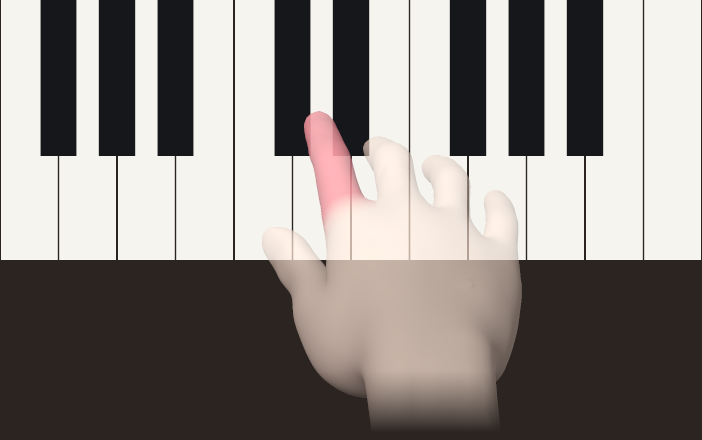
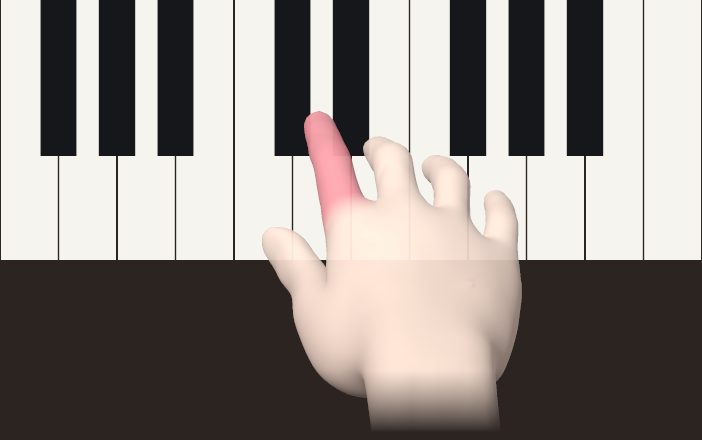
第 7 版：琴键上方的音符区压到原来四成高，3D 手更不透明
- 音符区高度 clamp(84px,12vh,120px)，音符块缩到 32px，最多显示接下来 4 个
- 手的默认不透明度 0.5 → 0.9，底部渐隐范围缩短，手掌不再被淡掉

diff --git a/index.html b/index.html
@@ -32,13 +32,13 @@ h1{font-size:clamp(30px,5vw,44px);line-height:1.05;letter-spacing:-.02em;font-we
 .grid{display:grid;gap:20px}
 @media(min-width:900px){.grid{grid-template-columns:minmax(0,1.55fr) minmax(0,1fr);align-items:start}.side{position:sticky;top:16px}}
 .stage{background:linear-gradient(var(--lac2),var(--lac) 40%);border-radius:18px;padding:14px 12px 12px;color:#f1efe9}
-.lane{position:relative;height:clamp(170px,30vh,300px);overflow:hidden;border-radius:10px 10px 0 0;background:repeating-linear-gradient(90deg,transparent 0 calc(100%/var(--nw) - 1px),rgba(255,255,255,.05) calc(100%/var(--nw) - 1px) calc(100%/var(--nw)))}
-.blk{position:absolute;bottom:0;transform:translateX(-50%);display:grid;place-items:center;align-content:center;gap:1px;border-radius:8px;font-weight:700;font-size:13px;line-height:1.1;transition:bottom .28s ease,opacity .28s ease,left .28s ease;white-space:nowrap}
-.blk.w{width:calc(100%/var(--nw) - 4px);height:46px;background:#f3f1ec;color:#141518}
-.blk.b{width:calc(100%/var(--nw)*0.7);height:46px;background:#3a3d45;color:#fff;outline:2px solid #f3f1ec}
+.lane{position:relative;height:clamp(84px,12vh,120px);overflow:hidden;border-radius:10px 10px 0 0;background:repeating-linear-gradient(90deg,transparent 0 calc(100%/var(--nw) - 1px),rgba(255,255,255,.05) calc(100%/var(--nw) - 1px) calc(100%/var(--nw)))}
+.blk{position:absolute;bottom:0;transform:translateX(-50%);display:grid;place-items:center;align-content:center;gap:1px;border-radius:7px;font-weight:700;font-size:11px;line-height:1;transition:bottom .28s ease,opacity .28s ease,left .28s ease;white-space:nowrap}
+.blk.w{width:calc(100%/var(--nw) - 4px);height:32px;background:#f3f1ec;color:#141518}
+.blk.b{width:calc(100%/var(--nw)*0.7);height:32px;background:#3a3d45;color:#fff;outline:2px solid #f3f1ec}
 .blk.now{background:var(--felt);color:#fff;outline:none;box-shadow:0 0 0 3px rgba(200,16,46,.35)}
-.lyric{position:absolute;left:10px;top:8px;font-size:14px;color:#c9c6bf;right:10px}
-.fg{display:grid;place-items:center;width:22px;height:22px;border-radius:50%;background:#141518;color:#fff;font-size:13px;font-style:normal}
+.lyric{position:absolute;left:8px;top:4px;font-size:12px;color:#c9c6bf;right:10px}
+.fg{display:grid;place-items:center;width:15px;height:15px;border-radius:50%;background:#141518;color:#fff;font-size:10px;font-style:normal}
 .blk.now .fg{background:#fff;color:var(--felt)}
 .handov{position:absolute;left:0;right:0;top:0;bottom:-66px;pointer-events:none;z-index:3}
 .handov[hidden]{display:none}
@@ -106,7 +106,7 @@ window.addEventListener('unhandledrejection', function (e) { var r = e.reason ||
 <div class="wrap">
 <div id="errBox" class="notice" hidden style="margin-bottom:14px"></div>
 <header>
-  <h1>听音钢琴课 <span class="small" style="font-weight:400;letter-spacing:0">第 6 版</span></h1>
+  <h1>听音钢琴课 <span class="small" style="font-weight:400;letter-spacing:0">第 7 版</span></h1>
   <div class="row" style="align-items:center">
     <button class="chip" id="micChip" type="button"><span class="dot"></span><span id="micTxt">麦克风未开启</span></button>
     <button class="btn main" id="startBtn" type="button">开始听</button>
@@ -434,10 +434,11 @@ function draw() {
   if (nt.shift) $('hint').className = 'hint shift'; else $('hint').className = 'hint';
   drawHand(nt.anchor, nt.f);
   $('lyric').textContent = song.lyric ? song.lyric.slice(Math.max(0, idx - 3), idx) + '【' + song.lyric[idx] + '】' + song.lyric.slice(idx + 1, idx + 5) : '';
-  for (let k = 0; k < 5 && idx + k < N; k++) {
+  const laneH = lane.clientHeight || 100, step = Math.max(20, (laneH - 36) / 3); // compact lane: up to 4 upcoming notes, overlapping a little
+  for (let k = 0; k < 5 && idx + k < N && 4 + k * step + 32 <= laneH + 1; k++) {
     const m = song.notes[idx + k].m, el = document.createElement('div');
     el.className = 'blk ' + (isW(m) ? 'w' : 'b') + (k === 0 ? ' now' : '');
-    el.style.left = keyX(m) + '%'; el.style.bottom = (6 + k * 54) + 'px'; el.style.opacity = 1 - k * 0.17;
+    el.style.left = keyX(m) + '%'; el.style.bottom = (4 + k * step) + 'px'; el.style.opacity = 1 - k * 0.2; el.style.zIndex = 10 - k;
     const fgr = song.notes[idx + k].f;
     el.innerHTML = (fgr ? `<i class="fg">${fgr}</i>` : '') + `<span>${nm(m)}</span>`; lane.appendChild(el);
   }
@@ -548,7 +549,7 @@ function startMic() {
 function diag(t) {
   let perm = '';
   const base = '安全连接 ' + (window.isSecureContext ? '是' : '否') + '；mediaDevices ' + (navigator.mediaDevices ? '有' : '无') + '；getUserMedia ' + (navigator.mediaDevices && navigator.mediaDevices.getUserMedia ? '有' : '无') + '；AudioContext ' + (window.AudioContext || window.webkitAudioContext ? '有' : '无');
-  const show = () => { $('diag').textContent = '第 6 版。' + t + '。' + base + perm + '。' + navigator.userAgent; };
+  const show = () => { $('diag').textContent = '第 7 版。' + t + '。' + base + perm + '。' + navigator.userAgent; };
   show();
   try { navigator.permissions.query({ name: 'microphone' }).then(r => { perm = '；麦克风权限 ' + r.state; show(); }, () => {}); } catch (e) {}
 }
@@ -598,8 +599,8 @@ if (!navigator.mediaDevices || !navigator.mediaDevices.getUserMedia) micFail(NO_
 <script type="module">
 // 3D 绑骨右手：hand3d/piano-hand.js + right-hand.glb。WebGL 或网络不行就继续用 2D 手。
 const host = window.__hand3dHost;
-if (host && !host.off) import('./hand3d/piano-hand.js?v=6')
-  .then(({ PianoHand }) => PianoHand.create({ container: host.container(), whiteKeys: host.whiteKeys, keyboardHeight: host.keyboardHeight, glbUrl: './hand3d/right-hand.glb?v=6' }))
+if (host && !host.off) import('./hand3d/piano-hand.js?v=7')
+  .then(({ PianoHand }) => PianoHand.create({ container: host.container(), whiteKeys: host.whiteKeys, keyboardHeight: host.keyboardHeight, glbUrl: './hand3d/right-hand.glb?v=7' }))
   .then(h => host.attach(h))
   .catch(e => console.warn('3D 手没有加载，用 2D 手：', e));
 </script>

diff --git a/hand3d/piano-hand.js b/hand3d/piano-hand.js
@@ -213,7 +213,7 @@ export class PianoHand {
     if (bad) { hand.dispose(); throw new Error('shader failed to compile'); }
     return hand;
   }
-  constructor({ container, whiteKeys = 12, keyboardHeight, labels = true, pose, shadows = true, maxPixelRatio = 2, keyLength = 6.4, opacity = 0.5 }, model, canvas) {
+  constructor({ container, whiteKeys = 12, keyboardHeight, labels = true, pose, shadows = true, maxPixelRatio = 2, keyLength = 6.4, opacity = 0.9 }, model, canvas) {
     this.container = container; this.prefL = keyLength; this.NW = whiteKeys; this.kbH = keyboardHeight || (() => container.clientHeight);
     this.rig = new HandRig(model, pose);
     const mat = makeSkinMaterial(this.rig, opacity);
@@ -234,7 +234,7 @@ export class PianoHand {
     r.shadowMap.enabled = shadows; r.shadowMap.type = THREE.PCFSoftShadowMap;
     canvas.className = 'ph-canvas';
     Object.assign(canvas.style, { position: 'absolute', inset: '0', width: '100%', height: '100%', pointerEvents: 'none',
-      maskImage: 'linear-gradient(to bottom,#000 calc(100% - 56px),transparent calc(100% - 6px))', webkitMaskImage: 'linear-gradient(to bottom,#000 calc(100% - 56px),transparent calc(100% - 6px))' });
+      maskImage: 'linear-gradient(to bottom,#000 calc(100% - 34px),transparent calc(100% - 2px))', webkitMaskImage: 'linear-gradient(to bottom,#000 calc(100% - 34px),transparent calc(100% - 2px))' });
     container.appendChild(canvas);
     const sc = this.scene = new THREE.Scene();
     sc.add(this.rig.root);
